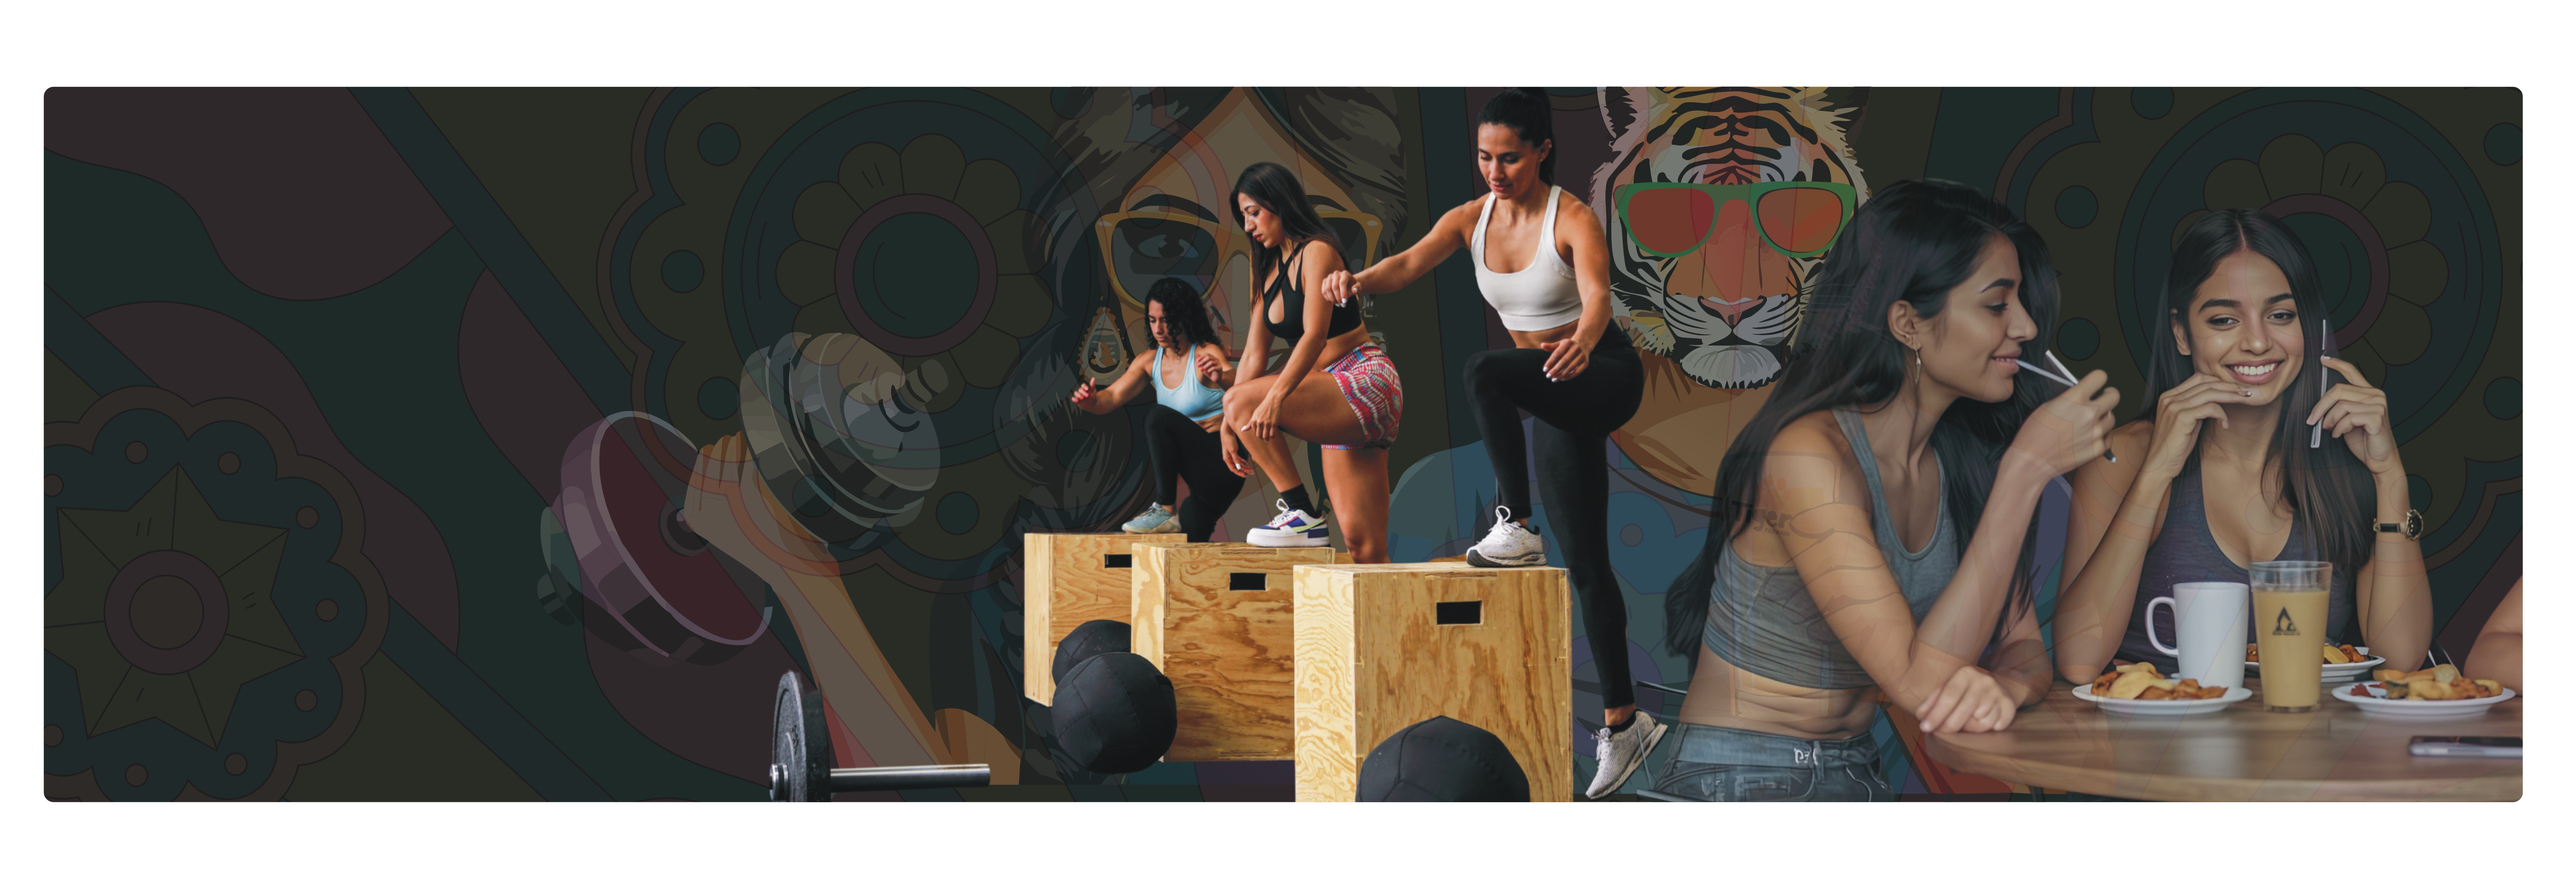
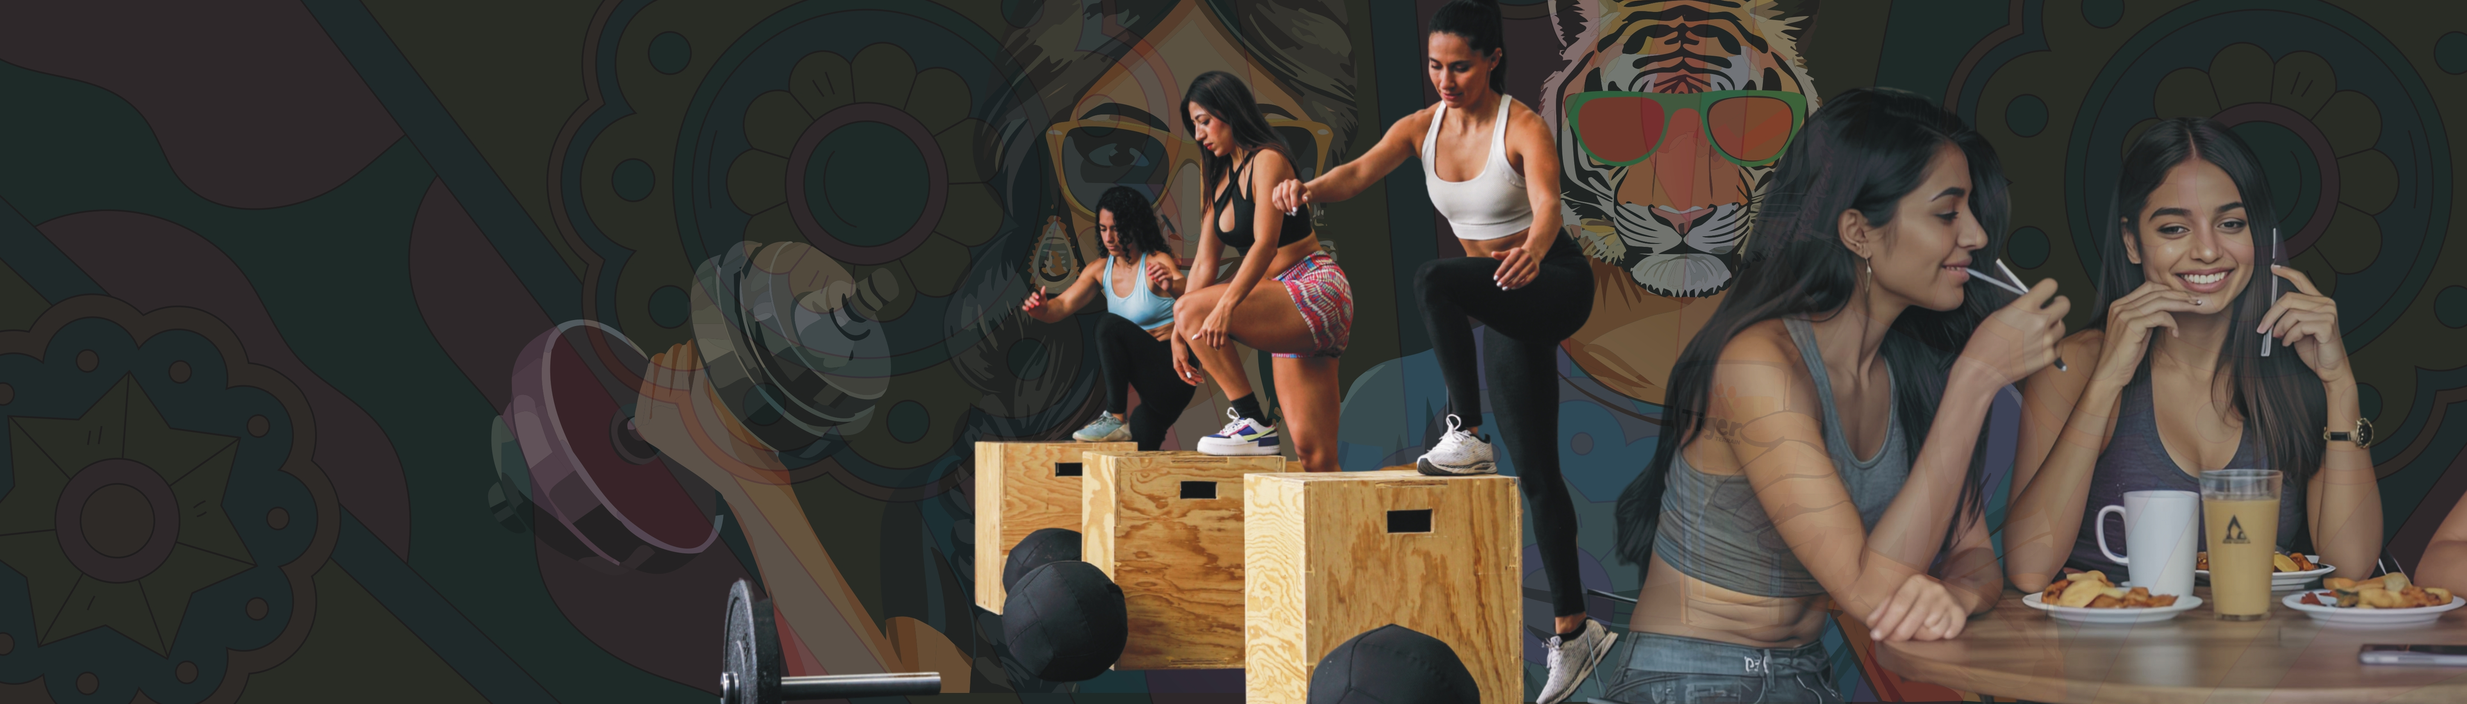
feat(events): update event images and enhance responsiveness
- Replace existing JPEG images with new WebP formats for better performance.
- Update EventHero and EventCards components to utilize the new images.
- Adjust layout for improved responsiveness on mobile and desktop views.

diff --git a/src/app/events/page.tsx b/src/app/events/page.tsx
@@ -19,10 +19,19 @@ export default function EventsPage() {
             {/* Background Image */}
             <div className="absolute inset-0 z-0">
               <Image
-                src="/images/events/tigerterrain 02.jpg"
-                alt="Events"
+                src="/images/events/tigerterrain20.webp"
+                alt="Events hero background"
                 fill
-                className="object-center"
+                className="object-cover hidden sm:block"
+                sizes="(max-width: 640px) 0px, 100vw"
+                priority
+              />
+              <Image
+                src="/images/events/tigerterrain10.webp"
+                alt="Events hero background mobile"
+                fill
+                className="object-cover sm:hidden"
+                sizes="100vw"
                 priority
               />
               {/* Overlay */}

diff --git a/src/components/EventCards.tsx b/src/components/EventCards.tsx
@@ -133,7 +133,7 @@ const EventCards: React.FC<EventCardsProps> = ({ title = "EVENTS" }) => {
                         {/* Image Background */}
                         <div className="relative w-full h-full">
                           <Image
-                            src="/images/events/tigerterrain 01.jpg"
+                            src="/images/events/tigerterrain10.webp"
                             alt={event.title}
                             fill
                             className="object-cover transition-transform duration-300 hover:scale-105"
